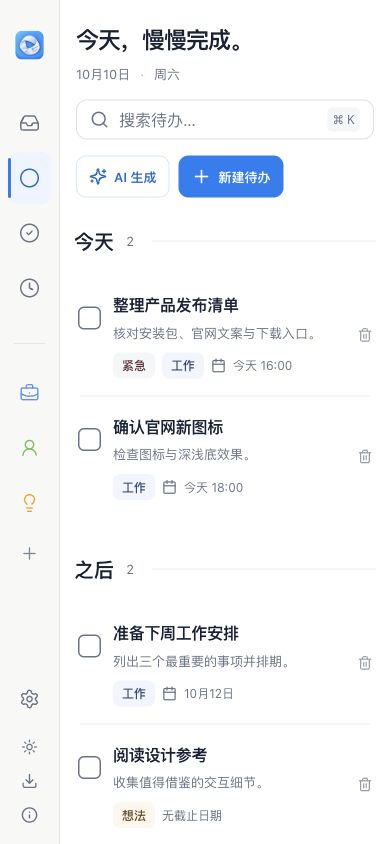
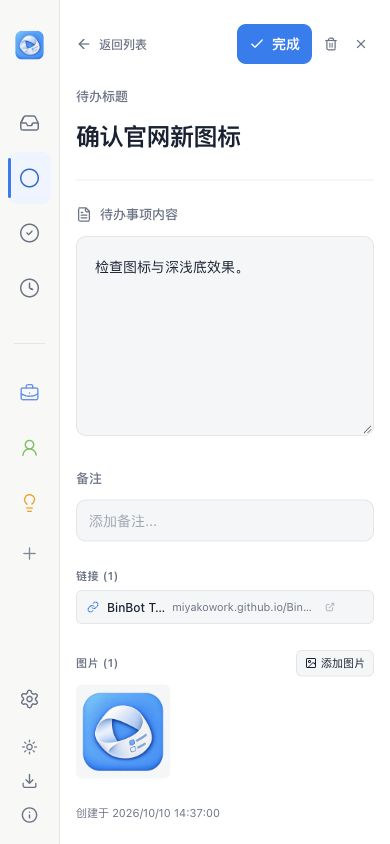
feat: publish v3.3.0 downloads and primary editor showcase

diff --git a/src/content/site.ts b/src/content/site.ts
@@ -6,17 +6,17 @@ export const siteMeta = {
 
 export const projectStatus = {
   available: true,
-  label: 'v3.2.0 已发布',
+  label: 'v3.3.0 已发布',
   githubUrl: 'https://github.com/miyakowork/BinBotTodoOfficialPage',
 } as const
 
 export const release = {
-  version: '3.2.0',
+  version: '3.3.0',
   architecture: 'Apple Silicon（arm64）',
   downloadUrl:
-    'https://github.com/miyakowork/BinBotTodoOfficialPage/releases/download/v3.2.0/BinBot.Todo_3.2.0_aarch64.dmg',
+    'https://github.com/miyakowork/BinBotTodoOfficialPage/releases/download/v3.3.0/BinBot.Todo_3.3.0_aarch64.dmg',
   releaseUrl:
-    'https://github.com/miyakowork/BinBotTodoOfficialPage/releases/tag/v3.2.0',
+    'https://github.com/miyakowork/BinBotTodoOfficialPage/releases/tag/v3.3.0',
   signed: true,
   notarized: false,
 } as const
@@ -34,7 +34,7 @@ export const workflowItems = [
   { title: '搜索即刻抵达', description: '标题与待办内容即时搜索，⌘K 聚焦输入，状态和标签继续筛选。' },
 ] as const
 
-export const launcherReleaseNotice = 'v3.2.0 带来「轻盈专注」工作台：分组列表、常驻搜索与右侧详情，适配深色模式和窄窗口；AI 默认生成 1 个待办。'
+export const launcherReleaseNotice = 'v3.3.0 让新增与编辑占据主要视图：列表收为辅助导航，内容与属性分栏，窄窗口专注编辑；AI 默认生成 1 个待办。'
 
 export const faqItems = [
   {
@@ -43,7 +43,7 @@ export const faqItems = [
   },
   {
     question: '现在可以下载吗？',
-    answer: `可以。官网现已提供 BinBot Todo v3.2.0，当前安装包适用于 Apple Silicon（arm64）Mac。${launcherReleaseNotice}`,
+    answer: `可以。官网现已提供 BinBot Todo v3.3.0，当前安装包适用于 Apple Silicon（arm64）Mac。${launcherReleaseNotice}`,
   },
   {
     question: '新版启动后怎么使用？',
@@ -59,7 +59,7 @@ export const faqItems = [
   },
   {
     question: '首次打开为什么会出现安全提示？',
-    answer: '当前 v3.2.0 安装包已完成 ad-hoc 应用包签名，但未使用 Apple Developer ID 且未经公证。首次打开时如出现安全提示，可在系统设置的“隐私与安全性”中选择“仍要打开”。',
+    answer: '当前 v3.3.0 安装包已完成 ad-hoc 应用包签名，但未使用 Apple Developer ID 且未经公证。首次打开时如出现安全提示，可在系统设置的“隐私与安全性”中选择“仍要打开”。',
   },
   {
     question: '数据会上传到云端吗？',
@@ -75,7 +75,7 @@ export const faqItems = [
   },
   {
     question: 'AI 可以指定生成多少个待办吗？',
-    answer: '可以。v3.2.0 默认生成 1 个待办，也可通过数量输入框或加减按钮指定 1–50 个。提示词要求严格匹配数量，程序也会校验有效待办的条数；数量不符时自动纠正一次，仍不符则显示错误，不进入添加预览。',
+    answer: '可以。v3.3.0 默认生成 1 个待办，也可通过数量输入框或加减按钮指定 1–50 个。提示词要求严格匹配数量，程序也会校验有效待办的条数；数量不符时自动纠正一次，仍不符则显示错误，不进入添加预览。',
   },
   {
     question: '可以备份自己的数据吗？',

diff --git a/index.html b/index.html
@@ -6,10 +6,10 @@
     <meta name="theme-color" content="#f7fbff" />
     <meta
       name="description"
-      content="BinBot Todo 是一款简洁优雅的 macOS 待办事项管理工具，由 Mac 应用启动本地服务，在浏览器中管理任务、标签与附件。v3.2.0 已发布，AI 默认生成 1 个待办，可指定数量，数据本地保存。"
+      content="BinBot Todo 是一款简洁优雅的 macOS 待办事项管理工具，由 Mac 应用启动本地服务，在浏览器中管理任务、标签与附件。v3.3.0 已发布，AI 默认生成 1 个待办，可指定数量，数据本地保存。"
     />
     <meta property="og:title" content="BinBot Todo — 把今天，安排得刚刚好。" />
-    <meta property="og:description" content="v3.2.0 已发布：全新轻盈专注工作台，分组列表、常驻搜索与右侧详情，支持深色模式和窄窗口。Mac 应用启动本地服务，AI 默认生成 1 个并支持指定数量。数据本地保存，AI 可选。" />
+    <meta property="og:description" content="v3.3.0 已发布：新增与编辑占主要视图，列表收为辅助导航，内容与属性分栏，支持深色模式和窄窗口。Mac 应用启动本地服务，AI 默认生成 1 个并支持指定数量。数据本地保存，AI 可选。" />
     <meta property="og:type" content="website" />
     <meta property="og:image" content="/BinBotTodoOfficialPage/binbot-todo.png" />
     <link rel="icon" type="image/png" href="/BinBotTodoOfficialPage/binbot-todo.png" />
@@ -23,7 +23,7 @@
         <img src="/BinBotTodoOfficialPage/binbot-todo.png" alt="BinBot Todo" width="72" height="72" />
         <h1>把今天，安排得刚刚好。</h1>
         <p>即使未启用 JavaScript，你仍可了解 BinBot Todo：一款简洁优雅的 macOS 待办工具。新版由 Mac 应用启动本地服务，自动打开浏览器，通过 127.0.0.1 或 localhost 管理任务、标签与附件。数据保存在本机，AI 完全可选。</p>
-        <p>v3.2.0 已发布，采用轻盈专注工作台，包含分组列表、常驻搜索与右侧详情，适配深色模式和窄窗口；保留浏览器启动器与 AI 指定数量生成，默认生成 1 个待办。</p>
+        <p>v3.3.0 已发布，新增与编辑占主要视图，列表收为辅助导航，内容与属性分栏，窄窗口专注编辑；保留浏览器启动器与 AI 指定数量生成，默认生成 1 个待办。</p>
         <p><a href="https://github.com/miyakowork/BinBotTodoOfficialPage">前往 GitHub 查看项目进展</a></p>
       </main>
     </noscript>

diff --git a/src/content/site.test.ts b/src/content/site.test.ts
@@ -9,14 +9,14 @@ describe('site content', () => {
     expect(projectStatus.githubUrl).toBe(
       'https://github.com/miyakowork/BinBotTodoOfficialPage',
     )
-    expect(projectStatus.label).toBe('v3.2.0 已发布')
+    expect(projectStatus.label).toBe('v3.3.0 已发布')
     expect(release).toEqual({
-      version: '3.2.0',
+      version: '3.3.0',
       architecture: 'Apple Silicon（arm64）',
       downloadUrl:
-        'https://github.com/miyakowork/BinBotTodoOfficialPage/releases/download/v3.2.0/BinBot.Todo_3.2.0_aarch64.dmg',
+        'https://github.com/miyakowork/BinBotTodoOfficialPage/releases/download/v3.3.0/BinBot.Todo_3.3.0_aarch64.dmg',
       releaseUrl:
-        'https://github.com/miyakowork/BinBotTodoOfficialPage/releases/tag/v3.2.0',
+        'https://github.com/miyakowork/BinBotTodoOfficialPage/releases/tag/v3.3.0',
       signed: true,
       notarized: false,
     })
@@ -26,7 +26,7 @@ describe('site content', () => {
       '#local',
       '#faq',
     ])
-    expect(faqItems.some((item) => item.answer.includes('v3.2.0'))).toBe(true)
+    expect(faqItems.some((item) => item.answer.includes('v3.3.0'))).toBe(true)
     expect(faqItems.some((item) => item.answer.includes('Apple Silicon'))).toBe(true)
     expect(faqItems.some((item) => item.answer.includes('ad-hoc'))).toBe(true)
     expect(faqItems.some((item) => item.answer.includes('未使用 Apple Developer ID'))).toBe(true)

diff --git a/src/App.test.tsx b/src/App.test.tsx
@@ -28,7 +28,7 @@ describe('App', () => {
     downloadLinks.forEach((link) => {
       expect(link).toHaveAttribute(
         'href',
-        'https://github.com/miyakowork/BinBotTodoOfficialPage/releases/download/v3.2.0/BinBot.Todo_3.2.0_aarch64.dmg',
+        'https://github.com/miyakowork/BinBotTodoOfficialPage/releases/download/v3.3.0/BinBot.Todo_3.3.0_aarch64.dmg',
       )
     })
 
@@ -37,7 +37,7 @@ describe('App', () => {
     releaseLinks.forEach((link) => {
       expect(link).toHaveAttribute(
         'href',
-        'https://github.com/miyakowork/BinBotTodoOfficialPage/releases/tag/v3.2.0',
+        'https://github.com/miyakowork/BinBotTodoOfficialPage/releases/tag/v3.3.0',
       )
       expect(link).toHaveAttribute('target', '_blank')
       expect(link).toHaveAttribute('rel', 'noreferrer')
@@ -45,7 +45,7 @@ describe('App', () => {
 
     expect(screen.queryByText(/没有公开下载版本/)).not.toBeInTheDocument()
     expect(screen.queryByText(/待发布|应用内窗口版/)).not.toBeInTheDocument()
-    expect(screen.getByText('v3.2.0 已发布')).toBeVisible()
+    expect(screen.getByText('v3.3.0 已发布')).toBeVisible()
   })
 
   it('uses safe and consistent GitHub project links', () => {

diff --git a/src/components/ProductWindow.tsx b/src/components/ProductWindow.tsx
@@ -3,16 +3,16 @@ export default function ProductWindow() {
     <section className="product-window" aria-label="BinBot Todo 任务工作台演示">
       <div className="window-chrome" aria-hidden="true">
         <span /><span /><span />
-        <span className="window-title">127.0.0.1:18420 · 轻盈专注工作台</span>
+        <span className="window-title">127.0.0.1:18420 · 专注编辑工作台</span>
       </div>
       <picture>
-        <source media="(max-width: 720px)" srcSet={`${import.meta.env.BASE_URL}workspace-narrow.png`} />
+        <source media="(max-width: 720px)" srcSet={`${import.meta.env.BASE_URL}workspace-narrow.png`} width="390" height="844" />
         <img
           className="product-screenshot"
           src={`${import.meta.env.BASE_URL}workspace-desktop.png`}
-          width="1487"
-          height="1058"
-          alt="BinBot Todo v3.2.0 实际界面：今天，慢慢完成。分组列表、常驻搜索和右侧待办详情。"
+          width="1280"
+          height="720"
+          alt="BinBot Todo v3.3.0 实际界面：新增与编辑占主要视图，左侧紧凑待办列表，右侧内容与属性分栏。"
         />
       </picture>
     </section>

diff --git a/src/components/TaskDetailSection.tsx b/src/components/TaskDetailSection.tsx
@@ -8,7 +8,7 @@ export default function TaskDetailSection() {
           <SectionIntro
             eyebrow="02 · 每一件事的上下文"
             title="不只记下一句话。"
-            description="把完成任务真正需要的内容放在一起。下次打开时，不用重新回忆它从哪里开始。"
+            description="在主要视图中写清待办内容，用独立属性区安排标签、优先级和截止时间。窄窗口下，编辑表单占满内容区域。"
           />
           <div className="detail-feature-list">
             <div><span className="feature-icon">Aa</span><div><strong>备注与说明</strong><p>长内容与一句话备注各有位置。</p></div></div>

diff --git a/src/components/CapabilitySections.test.tsx b/src/components/CapabilitySections.test.tsx
@@ -21,7 +21,7 @@ describe('product capability sections', () => {
   it('states the released project status with a download action', () => {
     render(<App />)
 
-    expect(screen.getByText('v3.2.0 已发布')).toBeVisible()
+    expect(screen.getByText('v3.3.0 已发布')).toBeVisible()
     expect(screen.getByRole('heading', { name: '现在，就从这里开始。' })).toBeVisible()
     expect(
       screen.getAllByRole('link', { name: '下载 macOS 版（Apple Silicon）' }),

diff --git a/CHANGELOG.md b/CHANGELOG.md
@@ -1,5 +1,13 @@
 # 更新记录
 
+## v3.3.0 — 2026-10-10
+
+- 新增和编辑待办改为主要视图，待办列表收为紧凑辅助导航，标题与正文获得更多空间。
+- 内容与属性分栏：标签、优先级和截止时间集中排列，编辑时顶部工具栏更紧凑。
+- 窄窗口收起辅助列表，让编辑表单占满内容区；完成后回到详情，也可保存并返回列表。
+- 修复新建待办输入标题后直接切换另一条待办可能误删草稿的问题；空白清理等待保存完成，保存失败时不删除。
+- 保留深浅色主题、本地服务启动器、本机数据和 AI 指定数量生成。
+
 ## v3.2.0 — 2026-10-10
 
 - 全新「轻盈专注」工作台：分组任务列表、常驻搜索、蓝色选中状态和右侧详情面板。
